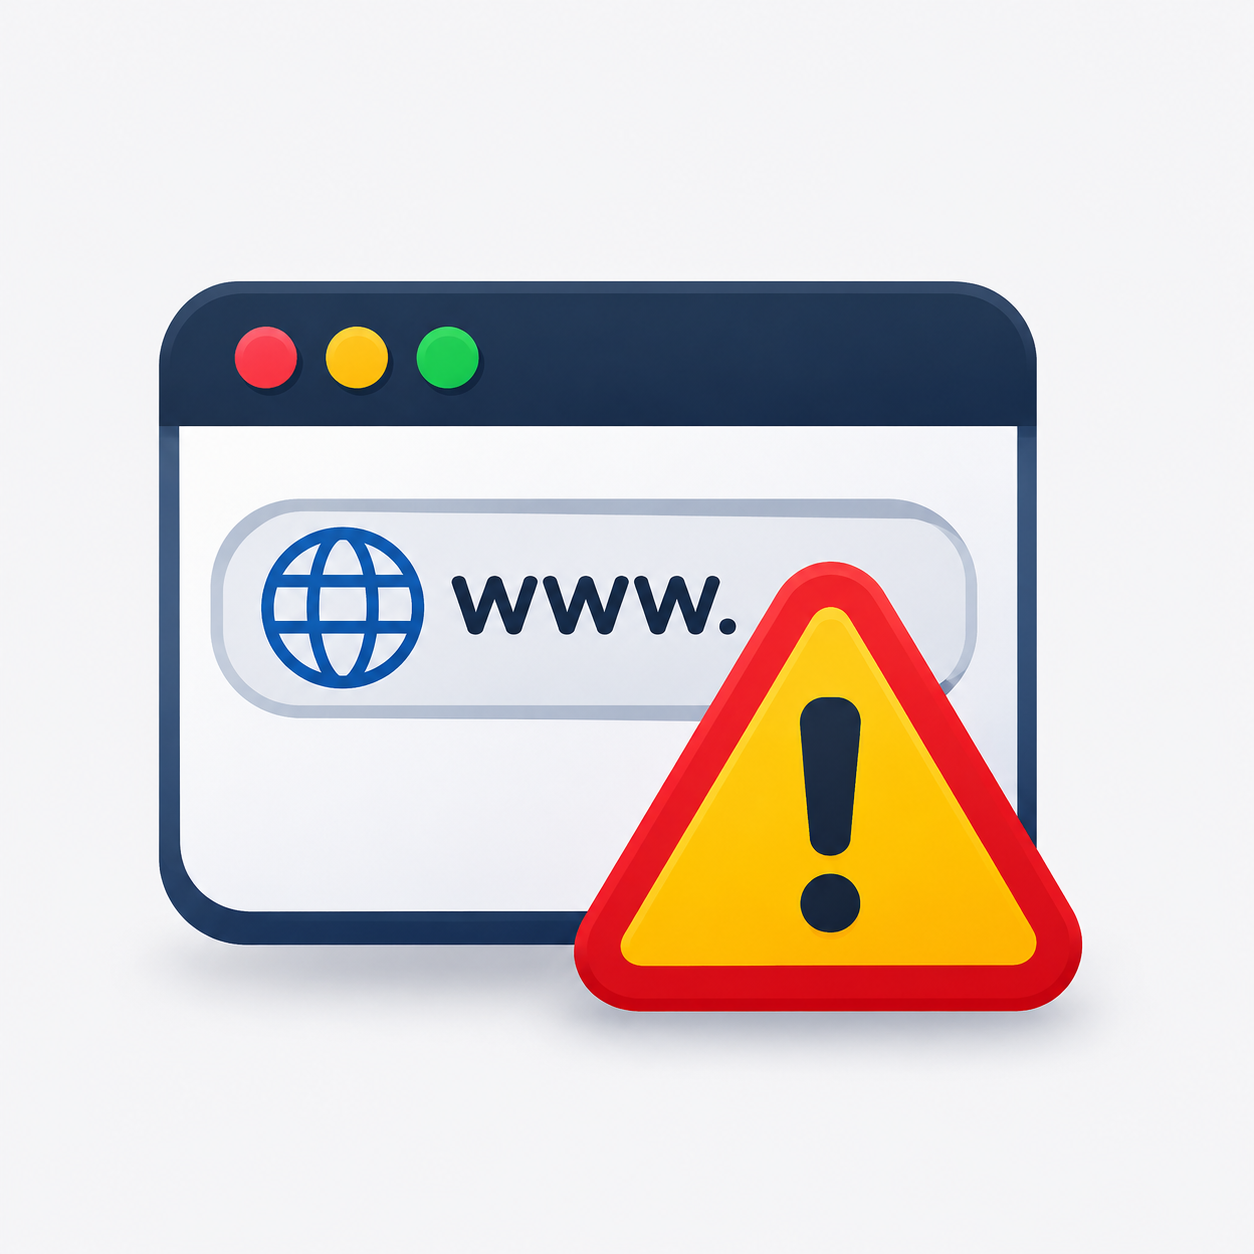
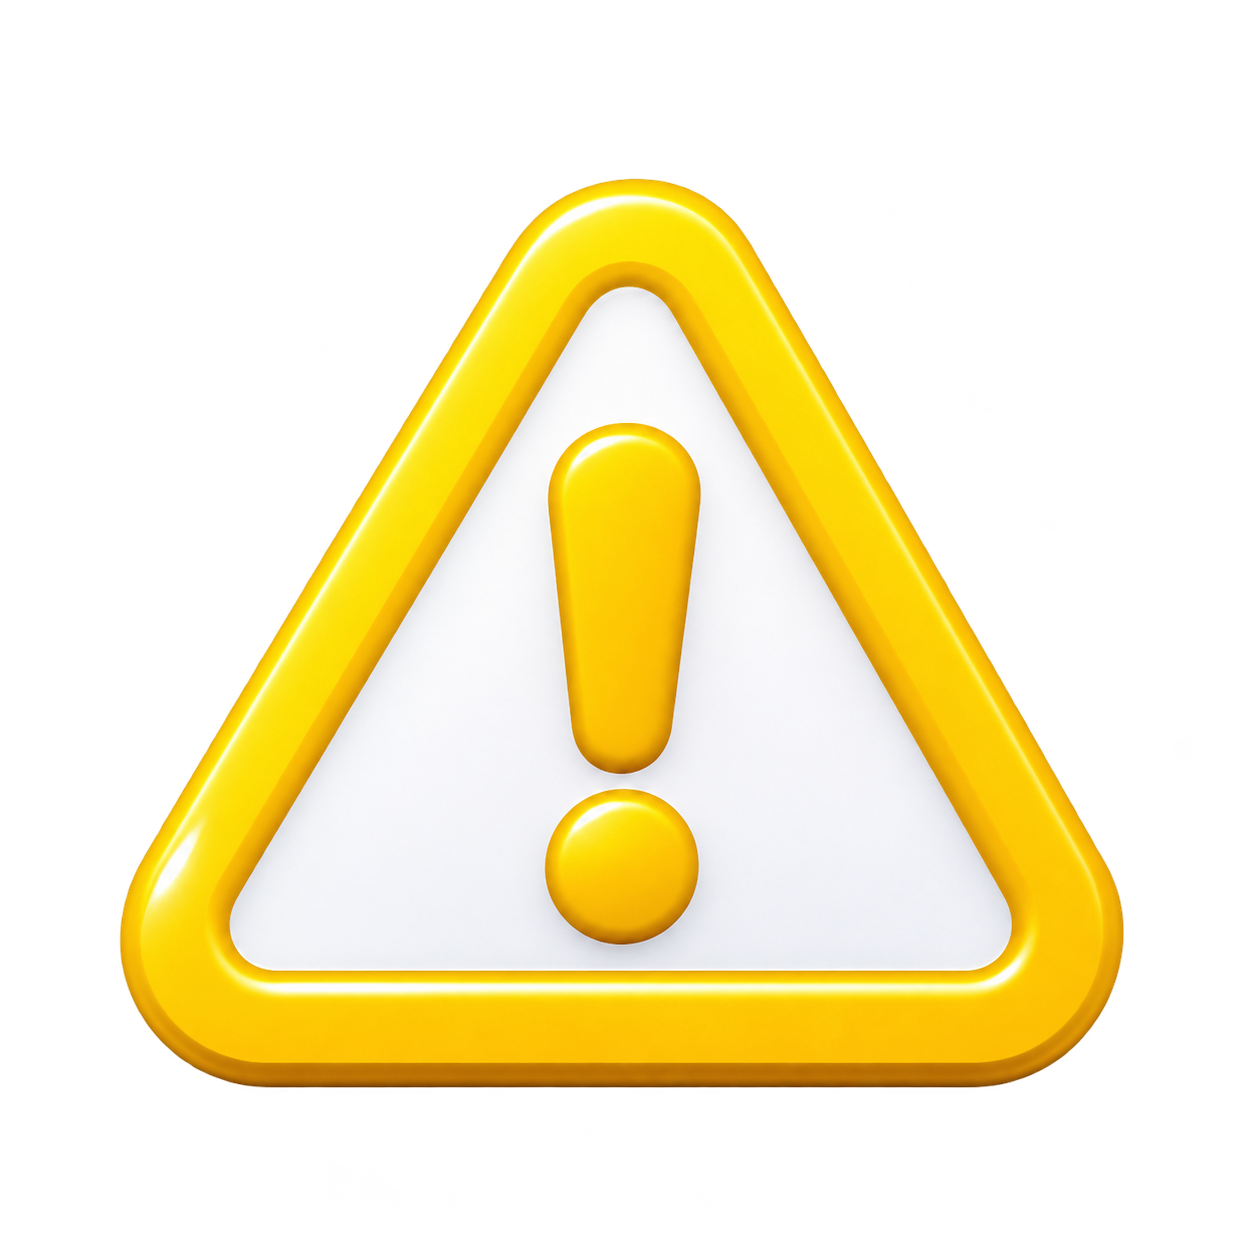
Atualiza icone, filtros e contagem do catalogo e importa seis lojas do Notion

diff --git a/public/app.js b/public/app.js
@@ -10,6 +10,7 @@ const state = {
     activeDrawerSection: null,
     drawerSearch: '',
     storesSearch: '',
+    storesStatus: 'all',
     activeStoresOnly: false,
     historySearch: '',
     historyType: 'all',
@@ -449,6 +450,7 @@ function renderStoresView() {
 
     const q = state.storesSearch.toLowerCase();
     const filtered = list.filter(it => {
+        if (state.storesStatus !== 'all' && it.status !== state.storesStatus) return false;
         if (!q) return true;
         return it.name.toLowerCase().includes(q) || it.domain.toLowerCase().includes(q);
     });
@@ -456,6 +458,8 @@ function renderStoresView() {
     const tbody = document.getElementById('stores-tbody');
     if (!tbody) return;
 
+    document.getElementById('stores-catalog-count').textContent = '(' + filtered.length + ' de ' + list.length + ')';
+    document.getElementById('stores-status-filter').value = state.storesStatus;
     document.getElementById('stores-catalog-subtitle').textContent = state.activeStoresOnly
         ? (s.active_is_current ? 'Lojas ativas hoje' : 'Lojas ativas no fim do período selecionado')
         : 'Todas as lojas sob acompanhamento, domínios vinculados e trocas de domínio realizadas.';
@@ -757,6 +761,7 @@ function switchView(viewName, { activeStoresOnly = false, updateHistory = true }
     }
     state.currentView = viewName;
     state.activeStoresOnly = activeStoresOnly;
+    state.storesStatus = activeStoresOnly ? 'ativa' : 'all';
     document.getElementById('mobile-back-btn').hidden = viewName === 'summary' && !history.state?.kloubeBack && !cameFromMonitor;
     document.getElementById('btn-open-add-modal').style.display = viewName === 'settings' ? 'none' : '';
     if (viewName === 'settings') loadMasterUsers();
@@ -1069,6 +1074,12 @@ document.addEventListener('DOMContentLoaded', () => {
     });
 
     // Busca nas lojas
+    document.getElementById('stores-status-filter').addEventListener('change', (event) => {
+        state.storesStatus = event.target.value;
+        state.activeStoresOnly = false;
+        renderStoresView();
+    });
+
     const storesSearch = document.getElementById('stores-search-input');
     if (storesSearch) {
         storesSearch.addEventListener('input', (e) => {

diff --git a/public/index.html b/public/index.html
@@ -357,12 +357,17 @@
             <div class="panel-card">
                 <div class="panel-card-header">
                     <div>
-                        <h2 class="panel-card-title">Catálogo de Lojas</h2>
+                        <h2 class="panel-card-title">Catálogo de Lojas <span id="stores-catalog-count" aria-live="polite"></span></h2>
                         <p class="panel-card-subtitle" id="stores-catalog-subtitle">Todas as lojas sob acompanhamento, domínios vinculados e trocas de domínio realizadas.</p>
                     </div>
                     <div class="panel-card-actions">
                         <button type="button" id="btn-all-stores" class="btn btn-secondary" style="display:none">Ver todas as lojas</button>
                         <button type="button" id="btn-new-store" class="btn btn-primary">+ Nova loja</button>
+                        <select id="stores-status-filter" class="search-input" aria-label="Filtrar lojas por status">
+                            <option value="all">Todas</option>
+                            <option value="ativa">Ativas</option>
+                            <option value="inativa">Inativas</option>
+                        </select>
                         <input type="search" id="stores-search-input" class="search-input" placeholder="Buscar loja ou domínio..." />
                     </div>
                 </div>
